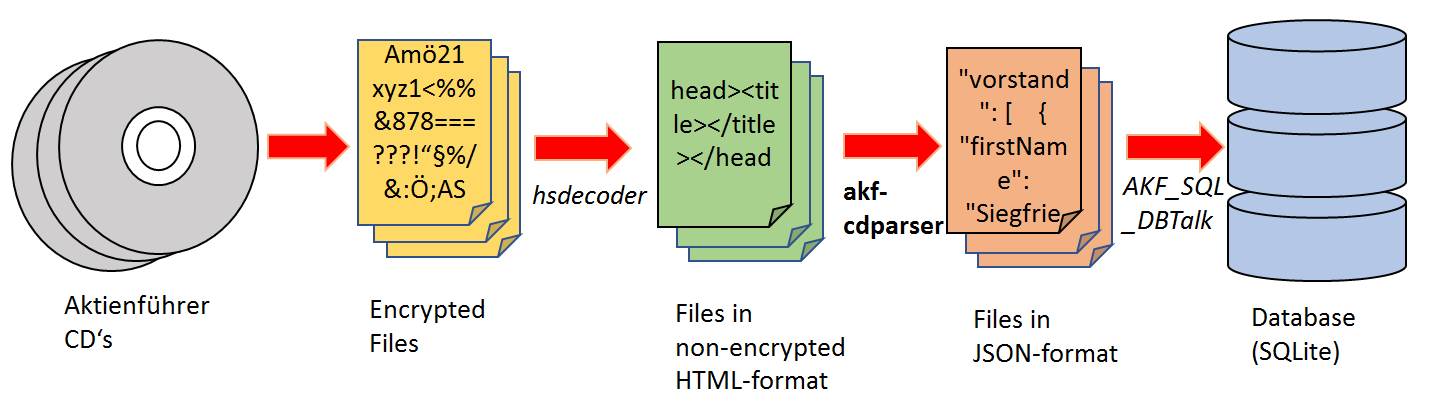
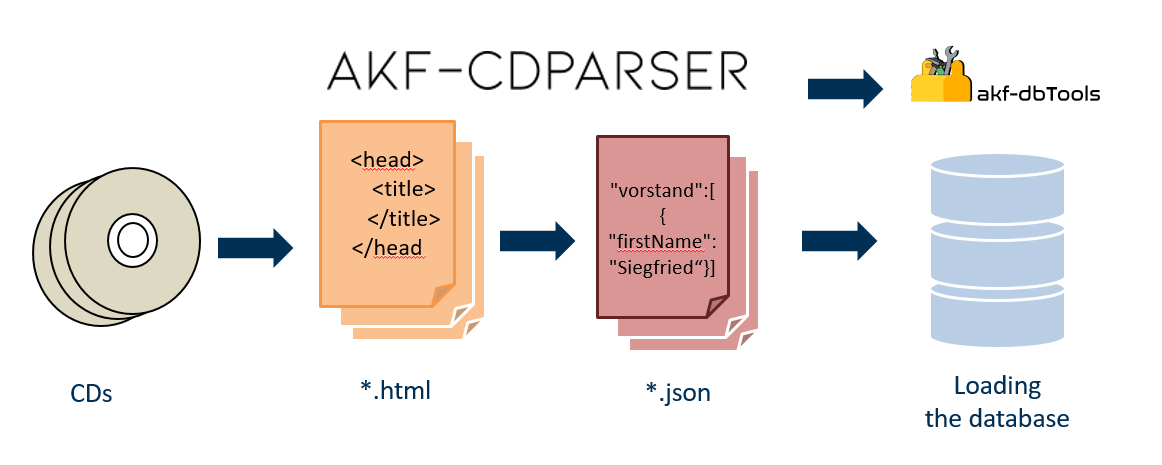
Added new workflow diagram.

diff --git a/README.md b/README.md
@@ -7,12 +7,12 @@ html-files (Generated by *'Hoppenstedt_decoder'*) from the
 Hoppenstedt-Aktienführer CD's (1999-2015-further Versions).
 It is part of the [Aktienführer-Datenarchiv work process][akf-link].
 
-The files are parsed to categorized json-files, which can be then read by another tool, called *AKF_SQL_DBTalk*. 
+The files are parsed to categorized json-files, which can be then read by another tool, called [*akf-dbTools*][dbtools-link]. 
 This tool does then the final step, it loads the json to the sql-database. The following diagram shows the basic workflow of the complete CD-parsing-project and also the position of akf-cdparser within that project.
 
 
 
-![workflow](./docs/img/basic_workflow.PNG "Basic Workflow")
+![workflow](./docs/img/basic_workflow.png "Basic Workflow")
 
 ## Installation 
 Install [Node.js][node-link]
@@ -54,5 +54,6 @@ The program consists of many modules. The following diagram shows the different 
 ![parserdiagram](./docs/img/DiagramAKFcdParser.png "ParserDiagram")
 
 [akf-link]: https://digi.bib.uni-mannheim.de/aktienfuehrer/ "Aktienführer-Datenarchive work process"
+[dbtools-link]: https://github.com/JKamlah/akf-dbTools
 [node-link]: http://node.js/ "NodeJS"
 [vscode-link]: https://code.visualstudio.com/ "VSCode"
